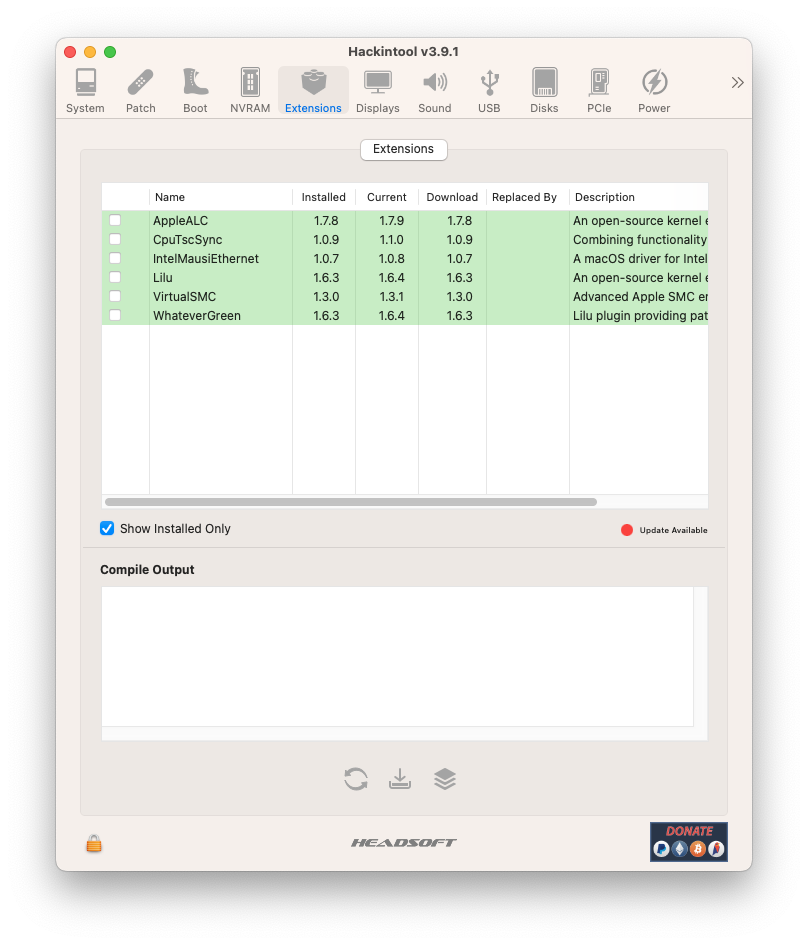
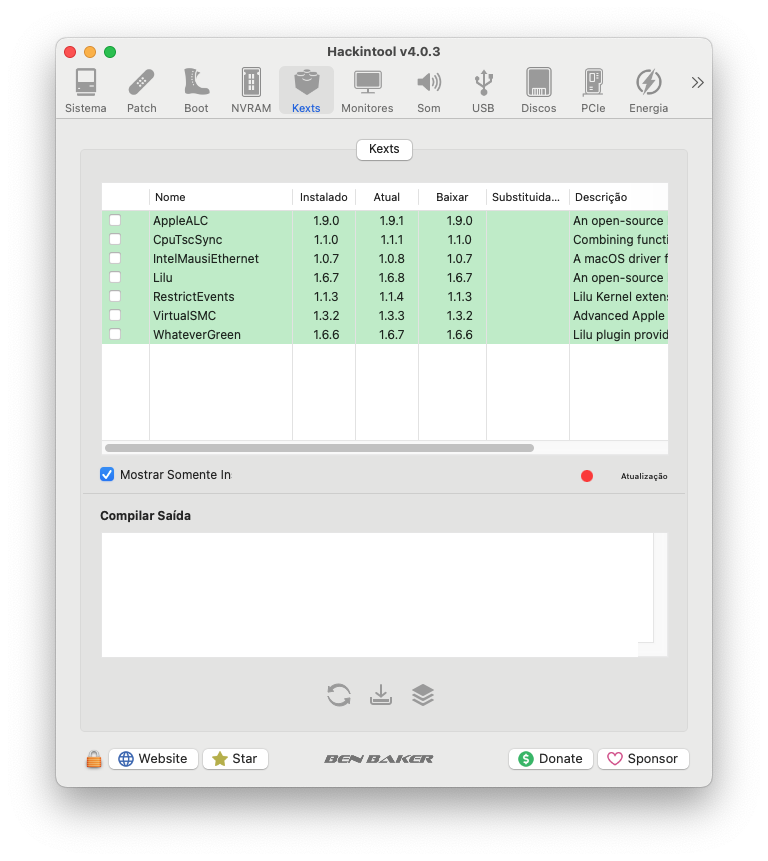
modified imgs in README.md

Changed region(s): [[0.0625, 0.0302, 0.9375, 0.9361]]

diff --git a/README.md b/README.md
@@ -13,7 +13,7 @@
 
 <img align="right" src="./imgs/banner.png" alt="foto Z390 M GAMING" width="330">
 
-_**macOS**_  _**Ventura (Sonoma BETA 1)**_
+_**macOS**_  _**Sonoma**_
 
 ##
 
@@ -66,16 +66,19 @@ _**My Setup**_
 ## *Screenshot*
 
 ## *About this mac*
-![about Ventura](./imgs/about_Ventura.png)
-![about Sonoma](./imgs/about_Sonoma.png)
-## *Hackintool peripherals*
-![Hackintool-Peripherals](./imgs/Peripherals.png)
-## *Hackintool PCIe*
-![Hackintool-PCIe](./imgs/PCIe.png)
+![about Sonoma](./imgs/about.png)
+## *Sound*
+![sound](./imgs/sound.png)
+## *Ethernet*
+![ethernet](./imgs/ethernet.png)
+## *Sound Peripherals*
+![sound-peripherals](./imgs/sound-peripherals.png)
+## *Peripherals*
+![peripherals](./imgs/peripherals.png)
 ## *Hackintool USB port mapping*
-![USB-Ports](./imgs/USB_Ports.png)
+![mapping](./imgs/mapping.png)
 ## *Hackintool kexts*
-![Hackintool-kexts](./imgs/kexts.png)
+![kexts](./imgs/kexts.png)
 ##
 
 ## *Kexts used, (all Releases)*
